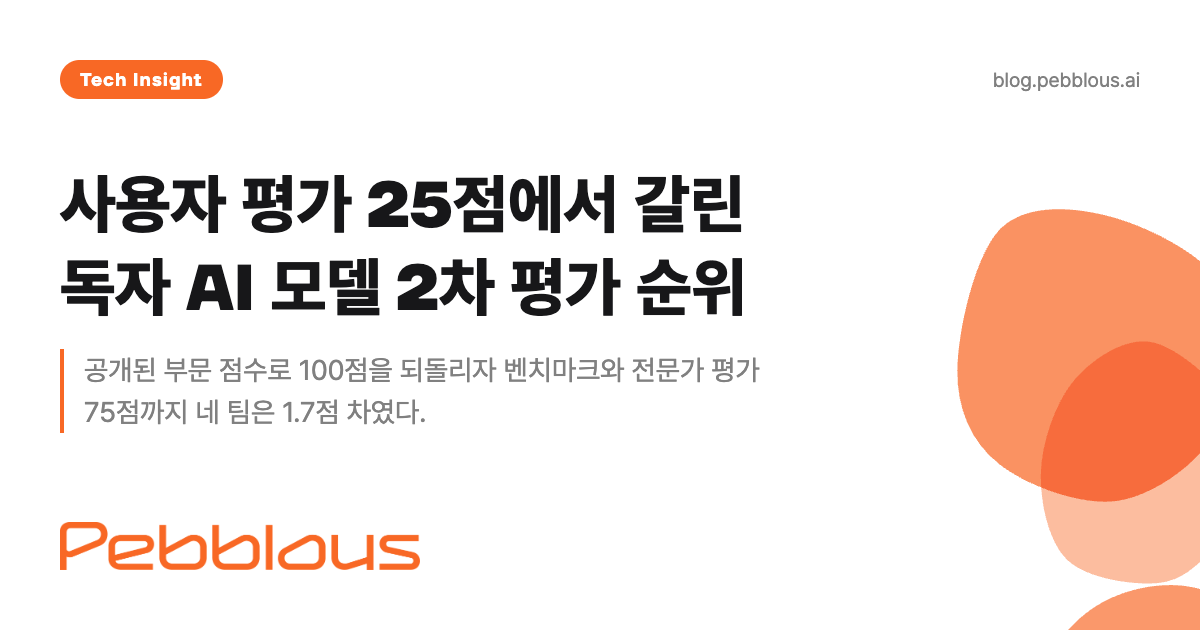
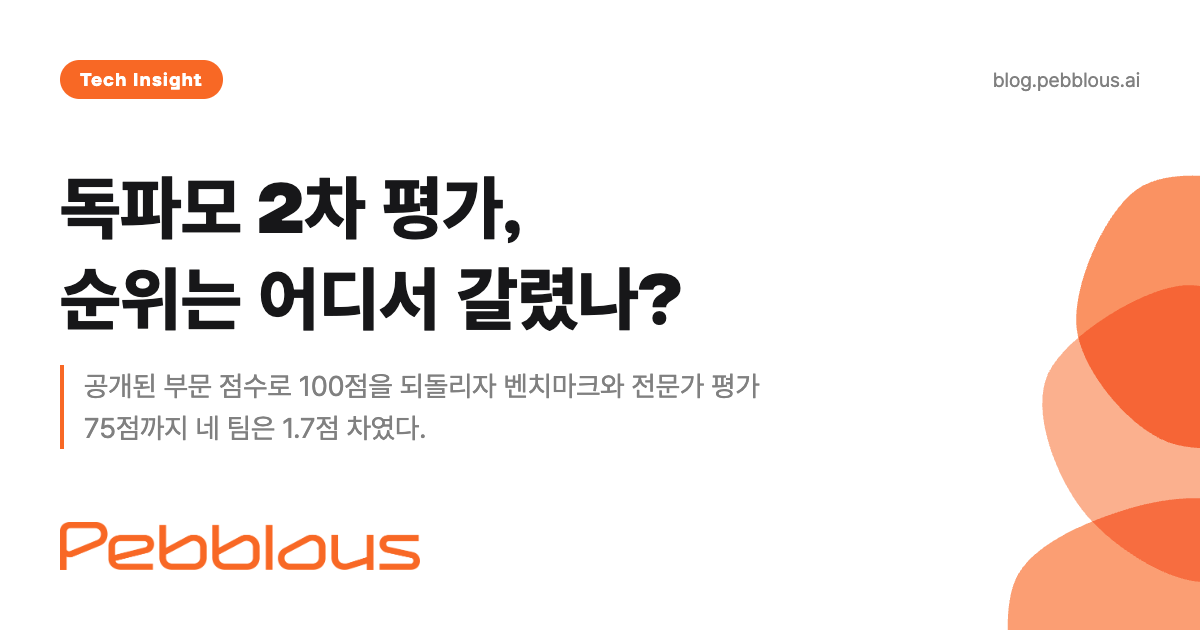
fix(report): 독파모 스코어카드 — 현행 규칙 맞춤 (KO+EN)
- 제목 v3·핵심 검색어: '독파모 2차 평가, 순위는 어디서 갈렸나?'(수치 나열 해소) + pb-search-keyword, 검색 제목 키워드 시작
- 초록 첫 문장에서 날짜 디테일 제거
- FAQ 답 29문장 합쇼체→해라체, 질문 9개 해요체→해라체
- EN: 제목 콜론 규칙·키워드 메타, 이탤릭 제거
- 발행일은 원래 작성일(2026-08-28) 유지 — 본문이 8월 말 시점 기준으로 쓰여 있음
- OG 표지 재생성, index.md 재추출

Changed region(s): [[0.0308, 0.2714, 0.6475, 0.6937], [0.7708, 0.2714, 1.0, 1.0]]

diff --git a/report/korea-dokpamo-benchmark-scorecard-2026-08/ko/index.html b/report/korea-dokpamo-benchmark-scorecard-2026-08/ko/index.html
@@ -9,8 +9,10 @@
     <meta name="copyright" content="© 2026 Pebblous. All rights reserved.">
     <meta name="robots" content="index, follow">
 
-    <title>독파모 2차 평가 점수 분석 — 벤치마크 40점과 사용자 평가 25점의 실효 가중치 | 페블러스</title>
+    <title>독파모 2차 평가 점수 분석, 벤치마크 40점과 사용자 평가 25점의 실효 가중치 | 페블러스</title>
     <meta name="description" content="독파모 2차 평가의 부문 점수를 되돌려 계산했다. 벤치마크와 전문가 평가를 합친 75점까지 네 팀은 1.7점 차였고, 순위는 마지막 사용자 평가 25점에서 갈렸다. AAII 25점 만점은 세계 1위 모델도 15.8점, NIA 15점은 네 팀을 0.7점 안에 묶었다.">
+    <meta name="pb-search-keyword" content="독파모">
+    <meta name="pb-search-keyword-forms" content="독파모|독자 AI 파운데이션 모델|독자 AI 모델">
     <meta name="keywords" content="독파모, 독자 AI 파운데이션 모델, AAII, Artificial Analysis, NIA 벤치마크, LLM 벤치마크, 모델 평가, AI 정책, 과학기술정보통신부, 모티프테크놀로지스, 데이터 품질, AI-Ready Data, 평가 데이터, 페블러스, Pebblous">
 
     <link rel="canonical" href="https://blog.pebblous.ai/report/korea-dokpamo-benchmark-scorecard-2026-08/ko/">
@@ -20,27 +22,27 @@
 
     <!-- Open Graph -->
     <meta property="og:type" content="article">
-    <meta property="og:title" content="사용자 평가 25점에서 갈린 독자 AI 모델 2차 평가 순위">
+    <meta property="og:title" content="독파모 2차 평가, 순위는 어디서 갈렸나?">
     <meta property="og:description" content="공개된 부문 점수로 100점을 되돌리자 벤치마크와 전문가 평가 75점까지 네 팀은 1.7점 차였다. 순위를 만든 힘은 마지막 구간에 실려 있었다.">
     <meta property="og:url" content="https://blog.pebblous.ai/report/korea-dokpamo-benchmark-scorecard-2026-08/ko/">
     <meta property="og:image" content="https://blog.pebblous.ai/report/korea-dokpamo-benchmark-scorecard-2026-08/ko/image/index.png">
     <meta property="og:image:width" content="1200">
     <meta property="og:image:height" content="630">
-    <meta property="og:image:alt" content="독파모 2차 평가 100점의 부문별 분해">
+    <meta property="og:image:alt" content="독파모 2차 평가, 순위는 어디서 갈렸나?">
     <meta property="og:site_name" content="Pebblous Blog">
     <meta property="og:locale" content="ko_KR">
 
     <!-- Twitter -->
     <meta name="twitter:card" content="summary_large_image">
-    <meta name="twitter:title" content="사용자 평가 25점에서 갈린 독자 AI 모델 2차 평가 순위">
+    <meta name="twitter:title" content="독파모 2차 평가, 순위는 어디서 갈렸나?">
     <meta name="twitter:description" content="AAII 25점 만점은 세계 1위 모델을 넣어도 15.8점이고, NIA 15점은 네 팀을 0.7점 안에 묶었다. 같은 100점 안에서 두 벤치마크의 자가 달랐다.">
     <meta name="twitter:image" content="https://blog.pebblous.ai/report/korea-dokpamo-benchmark-scorecard-2026-08/ko/image/index.png">
-    <meta name="twitter:image:alt" content="독파모 2차 평가 100점의 부문별 분해">
+    <meta name="twitter:image:alt" content="독파모 2차 평가, 순위는 어디서 갈렸나?">
     <meta name="twitter:site" content="@pebblous_ai">
     <meta name="twitter:creator" content="@pebblous_ai">
 
     <!-- Google Scholar Citation Meta -->
-    <meta name="citation_title" content="사용자 평가 25점에서 갈린 독자 AI 모델 2차 평가 순위 — 공개된 부문 점수로 되돌려 본 100점의 구조">
+    <meta name="citation_title" content="독파모 2차 평가, 순위는 어디서 갈렸나? 공개된 부문 점수로 되돌려 본 100점의 구조">
     <meta name="citation_author" content="Pebblous Data Communication Team">
     <meta name="citation_publication_date" content="2026/08/28">
     <meta name="citation_online_date" content="2026/08/28">
@@ -106,7 +108,7 @@
                 <section id="executive-summary" class="mb-16 fade-in-card">
                     <h2 class="text-3xl font-bold themeable-heading mb-8">Executive Summary</h2>
                     <div class="key-insight">
-                        <p class="themeable-text leading-relaxed">정부는 8월 18일 독자 AI 파운데이션 모델 사업의 2차 단계평가 결과를 발표하면서 두 가지를 함께 말했다. 모티프테크놀로지스가 다음 단계로 가지 못한다는 것, 그리고 한국이 미국과 중국에 이어 세계 3위라는 것이다. 그런데 탈락을 정한 100점과 3위를 말할 때 든 근거는 같은 잣대를 쓰지 않는다. 앞의 것은 국내 사업자를 고르는 선발 점수이고, 뒤의 것은 세계 리더보드의 특정 시점 스냅샷이다. 이 글은 공개된 숫자만으로 그 100점을 되돌려 본다.</p>
+                        <p class="themeable-text leading-relaxed">정부가 독자 AI 파운데이션 모델(독파모) 사업의 2차 단계평가 결과를 발표하면서 두 가지를 함께 말했다. 모티프테크놀로지스가 다음 단계로 가지 못한다는 것, 그리고 한국이 미국과 중국에 이어 세계 3위라는 것이다. 그런데 탈락을 정한 100점과 3위를 말할 때 든 근거는 같은 잣대를 쓰지 않는다. 앞의 것은 국내 사업자를 고르는 선발 점수이고, 뒤의 것은 세계 리더보드의 특정 시점 스냅샷이다. 이 글은 공개된 숫자만으로 그 100점을 되돌려 본다.</p>
                         <p class="themeable-text leading-relaxed mt-4">되돌리는 일은 8월 27일에야 가능해졌다. 그날 팀별 부문 점수가 전부 공개됐기 때문이다. 벤치마크와 전문가 평가를 합친 75점까지 네 팀은 1.7점 안에 붙어 있었다. 그 시점의 2위가 탈락한 팀이었다. 순서가 바뀐 것은 마지막 사용자 평가 구간이다. 한 부문씩 빼고 다시 매겨 보면 더 분명해진다. 어느 한 부문을 덜어내도 최하위는 그대로인데, 사용자 평가를 통째로 걷어내야 순서가 달라진다. 이것은 채점 오류가 아니라 가중합 점수표의 성질이다. 어떤 항목이 순위를 만드는지는 배점이 아니라 후보들이 그 항목에서 얼마나 흩어졌는지가 정한다. 합성지표 연구는 이 괴리를 오래전에 정식화했고, 대학 순위와 인간개발지수에서도 같은 어긋남을 실제로 측정한 바 있다.</p>
                         <p class="themeable-text leading-relaxed mt-4">세계 순위 쪽도 되짚었다. 리더보드 전체를 발표 시점으로 되돌리자 정부의 검증 가능한 두 주장은 정확히 재현됐다. 다만 여드레 뒤 공개된 싱가포르의 새 모델이 지금은 그 구간에 들어와 있다. 순위 주장에는 유효기간이 있다는 뜻이다. 결국 평가표도 하나의 데이터셋이다. 지표가 서로 같은 것을 재고 있지는 않은지, 어떤 지표가 상한에 붙어 정보를 잃었는지, 스케일이 달라 명목 가중치가 뒤틀리지 않았는지. 학습 데이터에 던지는 질문을 모델을 재는 표에도 던져야 한다.</p>
                     </div>
@@ -758,9 +760,9 @@
               },
               "recordedAt": "2026-08-28T10:22:50.597Z"
             },
-            mainTitle: "사용자 평가 25점에서 갈린 독자 AI 모델 2차 평가 순위",
+            mainTitle: "독파모 2차 평가, 순위는 어디서 갈렸나?",
             subtitle: "공개된 부문 점수로 100점을 되돌리자 벤치마크와 전문가 평가 75점까지 네 팀은 1.7점 차였다",
-            pageTitle: "독파모 2차 평가 점수 분석 — 벤치마크 40점과 사용자 평가 25점의 실효 가중치 | 페블러스",
+            pageTitle: "독파모 2차 평가 점수 분석, 벤치마크 40점과 사용자 평가 25점의 실효 가중치 | 페블러스",
             publishDate: "2026-08-28",
             publisher: "(주)페블러스 데이터 커뮤니케이션팀",
             defaultTheme: "light",
@@ -769,15 +771,15 @@
             wordCount: 18780,
             tags: ["독파모", "독자 AI 파운데이션 모델", "AAII", "Artificial Analysis", "NIA 벤치마크", "LLM 벤치마크", "모델 평가", "AI 정책", "데이터 품질", "AI-Ready Data", "평가 데이터", "과학기술정보통신부"],
             faqs: [
-                { question: "독파모 2차 평가의 100점은 어떻게 구성되나요?", answer: "AAII 벤치마크 25점, NIA 벤치마크 15점, 전문가 평가 35점, 전문 사용자 평가 15점, 국민 평가단 10점입니다. 기계가 채점하는 정량 벤치마크가 40점이고 나머지 60점은 사람이 매기는 점수입니다. 브리핑 구술에는 국민 평가 배점을 15점이라고 말한 대목이 있으나 같은 브리핑 질의응답에서 10점으로 정정됐고, 공개된 부문 평균과도 10점 쪽만 맞습니다." },
-                { question: "AAII에서 1위였던 모티프테크놀로지스가 왜 탈락했나요?", answer: "공개된 점수를 부문별로 되돌려 보면 벤치마크 40점과 전문가 평가 35점을 합친 75점까지 네 팀은 1.7점 안에 있었고 모티프테크놀로지스가 두 번째였습니다. 순서가 달라진 것은 마지막 사용자 평가 25점 구간입니다. 다만 이것은 산술적 관찰이며 특정 부문이 탈락의 원인이라는 인과 주장은 아닙니다. 모티프의 이의신청 결과는 2026년 8월 28일 현재 발표되지 않았습니다." },
-                { question: "AAII 25점 만점은 어떻게 환산되나요?", answer: "원점수에 0.25를 곱합니다. 25점을 받으려면 AAII 원점수 100점이 필요하고, 조회 시점 세계 1위 모델의 63.05를 같은 식에 넣어도 15.8점입니다. 25점 배점의 실질 상한이 16점 남짓인 셈입니다. 모티프테크놀로지스도 이의신청 입장문에서 같은 계산에 도달해 1위와 4위의 환산 격차가 4점에 불과하다고 지적했습니다." },
-                { question: "NIA 벤치마크의 원점수와 문항 수는 왜 나오지 않나요?", answer: "2026년 8월 28일 현재 공개되지 않았습니다. 공개된 것은 7개 분야 이름과 15점 만점으로 스케일링한 뒤의 팀별 점수뿐입니다. 그래서 네 팀이 0.7점 안에 몰린 것이 시험지에서 온 결과인지 환산 단계에서 온 결과인지 외부에서 가를 수 없습니다. 모티프테크놀로지스가 이의신청에서 요구한 항목에도 환산식 공개가 들어 있습니다." },
-                { question: "명목 배점과 실효 가중치가 다르다는 것은 무슨 뜻인가요?", answer: "가중합 점수에서 어떤 항목이 순위를 만드는지는 배점이 아니라 후보들이 그 항목에서 얼마나 흩어졌는지가 정합니다. 합성지표 연구는 이 괴리를 오래전에 정식화했고, 영국의 한 대학 순위에서는 명목 가중치가 0.20인 지표의 실제 중요도가 0.09로 측정된 사례가 있습니다." },
-                { question: "한국이 세계 AI 3강이라는 말의 근거는 무엇인가요?", answer: "최소한 네 가지 서로 다른 근거가 섞여 쓰입니다. AAII 국가별 프론티어 비교, AAII 40점 초과 구간 소속, 에포크 AI의 주목할 만한 AI 모델 등재국, 스탠퍼드 HAI의 AI 인덱스입니다. 각각 다른 것을 재며, 예컨대 HAI가 센 한국의 다섯 모델은 독파모 네 팀의 모델 목록과 다릅니다." },
-                { question: "정부가 발표한 40점 초과는 미·중·한뿐과 기업별 10위는 사실인가요?", answer: "리더보드 전체를 발표 시점으로 되돌려 재구성한 결과 두 주장 모두 정확히 재현됩니다. 다만 8월 26일 싱가포르의 새 모델이 그 구간에 들어오면서 8월 28일 조회 기준으로는 네 개 나라가 되고 기업별 순위도 한 칸 내려갑니다. 순위 주장에는 조회 시점을 함께 적어야 합니다." },
-                { question: "평가 기준을 공개하라는 것은 시험문제를 공개하라는 뜻인가요?", answer: "아닙니다. 문항을 전면 공개하면 벤치마크 학습과 점수 부풀리기가 생깁니다. 공개해야 할 것은 분야와 가중치, 프롬프트와 시스템 지침, 모델 버전과 추론 조건, 채점 기준, 반복 횟수와 신뢰구간, 평가위원 이해충돌 내역입니다. 일본의 국가 사업 GENIAC은 비공개 홀드아웃 데이터로 채점하면서 평가 조건과 결과는 공개하는 방식을 택했습니다." },
-                { question: "다른 조직도 이 진단을 해 볼 수 있나요?", answer: "필요한 재료는 지표별 최종 점수 행렬 하나뿐입니다. 각 지표에서 후보들이 얼마나 흩어졌는지를 재고, 그 흩어짐을 명목 배점과 나란히 놓아 실효 가중치를 계산하고, 상한이나 하한에 붙은 지표를 찾아내고, 사람이 채점하는 항목에는 평가자 간 일치도와 신뢰구간을 함께 남기면 됩니다." }
+                { question: "독파모 2차 평가의 100점은 어떻게 구성되나?", answer: "AAII 벤치마크 25점, NIA 벤치마크 15점, 전문가 평가 35점, 전문 사용자 평가 15점, 국민 평가단 10점이다. 기계가 채점하는 정량 벤치마크가 40점이고 나머지 60점은 사람이 매기는 점수다. 브리핑 구술에는 국민 평가 배점을 15점이라고 말한 대목이 있으나 같은 브리핑 질의응답에서 10점으로 정정됐고, 공개된 부문 평균과도 10점 쪽만 맞다." },
+                { question: "AAII에서 1위였던 모티프테크놀로지스가 왜 탈락했나?", answer: "공개된 점수를 부문별로 되돌려 보면 벤치마크 40점과 전문가 평가 35점을 합친 75점까지 네 팀은 1.7점 안에 있었고 모티프테크놀로지스가 두 번째였다. 순서가 달라진 것은 마지막 사용자 평가 25점 구간이다. 다만 이것은 산술적 관찰이며 특정 부문이 탈락의 원인이라는 인과 주장은 아니다. 모티프의 이의신청 결과는 2026년 8월 28일 현재 발표되지 않았다." },
+                { question: "AAII 25점 만점은 어떻게 환산되나?", answer: "원점수에 0.25를 곱한다. 25점을 받으려면 AAII 원점수 100점이 필요하고, 조회 시점 세계 1위 모델의 63.05를 같은 식에 넣어도 15.8점이다. 25점 배점의 실질 상한이 16점 남짓인 셈이다. 모티프테크놀로지스도 이의신청 입장문에서 같은 계산에 도달해 1위와 4위의 환산 격차가 4점에 불과하다고 지적했다." },
+                { question: "NIA 벤치마크의 원점수와 문항 수는 왜 나오지 않나?", answer: "2026년 8월 28일 현재 공개되지 않았다. 공개된 것은 7개 분야 이름과 15점 만점으로 스케일링한 뒤의 팀별 점수뿐이다. 그래서 네 팀이 0.7점 안에 몰린 것이 시험지에서 온 결과인지 환산 단계에서 온 결과인지 외부에서 가를 수 없다. 모티프테크놀로지스가 이의신청에서 요구한 항목에도 환산식 공개가 들어 있다." },
+                { question: "명목 배점과 실효 가중치가 다르다는 것은 무슨 뜻인가?", answer: "가중합 점수에서 어떤 항목이 순위를 만드는지는 배점이 아니라 후보들이 그 항목에서 얼마나 흩어졌는지가 정한다. 합성지표 연구는 이 괴리를 오래전에 정식화했고, 영국의 한 대학 순위에서는 명목 가중치가 0.20인 지표의 실제 중요도가 0.09로 측정된 사례가 있다." },
+                { question: "한국이 세계 AI 3강이라는 말의 근거는 무엇인가?", answer: "최소한 네 가지 서로 다른 근거가 섞여 쓰인다. AAII 국가별 프론티어 비교, AAII 40점 초과 구간 소속, 에포크 AI의 주목할 만한 AI 모델 등재국, 스탠퍼드 HAI의 AI 인덱스다. 각각 다른 것을 재며, 예컨대 HAI가 센 한국의 다섯 모델은 독파모 네 팀의 모델 목록과 다르다." },
+                { question: "정부가 발표한 40점 초과는 미·중·한뿐과 기업별 10위는 사실인가?", answer: "리더보드 전체를 발표 시점으로 되돌려 재구성한 결과 두 주장 모두 정확히 재현된다. 다만 8월 26일 싱가포르의 새 모델이 그 구간에 들어오면서 8월 28일 조회 기준으로는 네 개 나라가 되고 기업별 순위도 한 칸 내려간다. 순위 주장에는 조회 시점을 함께 적어야 한다." },
+                { question: "평가 기준을 공개하라는 것은 시험문제를 공개하라는 뜻인가?", answer: "아니다. 문항을 전면 공개하면 벤치마크 학습과 점수 부풀리기가 생긴다. 공개해야 할 것은 분야와 가중치, 프롬프트와 시스템 지침, 모델 버전과 추론 조건, 채점 기준, 반복 횟수와 신뢰구간, 평가위원 이해충돌 내역이다. 일본의 국가 사업 GENIAC은 비공개 홀드아웃 데이터로 채점하면서 평가 조건과 결과는 공개하는 방식을 택했다." },
+                { question: "다른 조직도 이 진단을 해 볼 수 있나?", answer: "필요한 재료는 지표별 최종 점수 행렬 하나뿐이다. 각 지표에서 후보들이 얼마나 흩어졌는지를 재고, 그 흩어짐을 명목 배점과 나란히 놓아 실효 가중치를 계산하고, 상한이나 하한에 붙은 지표를 찾아내고, 사람이 채점하는 항목에는 평가자 간 일치도와 신뢰구간을 함께 남기면 된다." }
             ]
         });
     </script>

diff --git a/report/korea-dokpamo-benchmark-scorecard-2026-08/en/index.html b/report/korea-dokpamo-benchmark-scorecard-2026-08/en/index.html
@@ -9,8 +9,10 @@
     <meta name="copyright" content="© 2026 Pebblous. All rights reserved.">
     <meta name="robots" content="index, follow">
 
-    <title>Korea's Sovereign AI Model Scorecard: Nominal vs Effective Weights in a 100-Point Evaluation | Pebblous</title>
+    <title>Korea Sovereign AI Scorecard, Reweighed | Pebblous</title>
     <meta name="description" content="Korea's sovereign AI scorecard, recalculated: four teams sat 1.7 points apart through 75 of 100, until the final 25 split them. AAII's real ceiling is 15.8 of 25.">
+    <meta name="pb-search-keyword" content="Korea sovereign AI">
+    <meta name="pb-search-keyword-forms" content="Korea sovereign AI|sovereign AI|Sovereign AI|dokpamo">
     <meta name="keywords" content="sovereign AI, AI foundation model, Korea AI policy, dokpamo, AAII, Artificial Analysis Intelligence Index, NIA benchmark, LLM benchmark, model evaluation, composite indicator, nominal weights, effective weights, benchmark saturation, evaluation data quality, AI-Ready Data, Pebblous">
 
     <link rel="canonical" href="https://blog.pebblous.ai/report/korea-dokpamo-benchmark-scorecard-2026-08/en/">
@@ -20,27 +22,27 @@
 
     <!-- Open Graph -->
     <meta property="og:type" content="article">
-    <meta property="og:title" content="The Benchmark Leader Came Last. We Rebuilt Korea's 100-Point AI Scorecard.">
+    <meta property="og:title" content="Where Was Korea's Sovereign AI Ranking Decided?">
     <meta property="og:description" content="Through 75 of the 100 points, the four teams were 1.7 points apart. The order was made in the last block. What a weighted scorecard actually measures is rarely what its weights say.">
     <meta property="og:url" content="https://blog.pebblous.ai/report/korea-dokpamo-benchmark-scorecard-2026-08/en/">
     <meta property="og:image" content="https://blog.pebblous.ai/report/korea-dokpamo-benchmark-scorecard-2026-08/en/image/index.png">
     <meta property="og:image:width" content="1200">
     <meta property="og:image:height" content="630">
-    <meta property="og:image:alt" content="The five blocks of Korea's 100-point sovereign AI model evaluation, broken down by team">
+    <meta property="og:image:alt" content="Where Was Korea's Sovereign AI Ranking Decided?">
     <meta property="og:site_name" content="Pebblous Blog">
     <meta property="og:locale" content="en_US">
 
     <!-- Twitter -->
     <meta name="twitter:card" content="summary_large_image">
-    <meta name="twitter:title" content="The Benchmark Leader Came Last. We Rebuilt Korea's 100-Point AI Scorecard.">
+    <meta name="twitter:title" content="Where Was Korea's Sovereign AI Ranking Decided?">
     <meta name="twitter:description" content="A 25-point block whose real ceiling is 15.8 even for the world's top model, and a 15-point block that put four teams inside 0.7. Two rulers, one scorecard.">
     <meta name="twitter:image" content="https://blog.pebblous.ai/report/korea-dokpamo-benchmark-scorecard-2026-08/en/image/index.png">
-    <meta name="twitter:image:alt" content="The five blocks of Korea's 100-point sovereign AI model evaluation, broken down by team">
+    <meta name="twitter:image:alt" content="Where Was Korea's Sovereign AI Ranking Decided?">
     <meta name="twitter:site" content="@pebblous_ai">
     <meta name="twitter:creator" content="@pebblous_ai">
 
     <!-- Google Scholar Citation Meta -->
-    <meta name="citation_title" content="The Benchmark Leader Came Last: Reconstructing the 100-Point Scorecard Behind Korea's Sovereign AI Foundation Model Contest">
+    <meta name="citation_title" content="Where Was Korea's Sovereign AI Ranking Decided? Reconstructing the 100-Point Scorecard">
     <meta name="citation_author" content="Pebblous Data Communication Team">
     <meta name="citation_publication_date" content="2026/08/28">
     <meta name="citation_online_date" content="2026/08/28">
@@ -106,7 +108,7 @@
                 <section id="executive-summary" class="mb-16 fade-in-card">
                     <h2 class="text-3xl font-bold themeable-heading mb-8">Executive Summary</h2>
                     <div class="key-insight">
-                        <p class="themeable-text leading-relaxed">On 18 August the Korean government announced the second-stage results of its Sovereign AI Foundation Model project, and said two things in the same breath. Motif Technologies would not advance. And Korea now stands third in the world, behind the United States and China. But the 100 points that decided the elimination and the evidence offered for third place are not measured with the same ruler. The first is a selection score for picking domestic contractors. The second is a snapshot of a global leaderboard at one moment in time. This report takes the published numbers and rebuilds that 100-point score.</p>
+                        <p class="themeable-text leading-relaxed">The Korean government announced the second-stage results of its Sovereign AI Foundation Model project and said two things in the same breath. Motif Technologies would not advance. And Korea now stands third in the world, behind the United States and China. But the 100 points that decided the elimination and the evidence offered for third place are not measured with the same ruler. The first is a selection score for picking domestic contractors. The second is a snapshot of a global leaderboard at one moment in time. This report takes the published numbers and rebuilds that 100-point score.</p>
                         <p class="themeable-text leading-relaxed mt-4">Rebuilding it only became possible on 27 August, when the per-team block scores were finally released in full. Through the benchmark and expert blocks, 75 of the 100 points, the four teams sat inside 1.7 points of each other. At that stage the team that was eliminated was in second place. The order changed in the final user-evaluation stretch. Dropping one block at a time makes it sharper. Remove any single block and the last-placed team stays last; only when the whole 25-point user evaluation is lifted out does the order rearrange. This is not a scoring error. It is a property of weighted-sum scorecards: which item makes the ranking is decided not by its weight but by how far apart the candidates fall on it. The composite-indicator literature formalised this gap years ago and measured it in university league tables and the Human Development Index.</p>
                         <p class="themeable-text leading-relaxed mt-4">We checked the world-ranking side too. Rewinding the full leaderboard to the announcement date, the government's two verifiable claims reproduce exactly. Eight days later, a new Singaporean model had entered the same band. Ranking claims come with an expiry date. In the end a scorecard is a dataset like any other. Are the indicators measuring the same thing twice? Has one of them saturated against its ceiling and stopped carrying information? Are the scales so different that the stated weights no longer mean what they say? These are the questions we ask of training data. They belong on the tables we use to score models too.</p>
                     </div>
@@ -141,7 +143,7 @@
                         <span class="number-badge">1</span>
                         <h2 class="text-3xl font-bold themeable-heading">What the 100 points are made of</h2>
                     </div>
-                    <p class="themeable-text leading-relaxed mb-6">Some context for readers outside Korea. The Sovereign AI Foundation Model project, known domestically as <em>dokpamo</em>, is a state programme that funds a shrinking set of national teams to build frontier-class Korean models, with GPU allocation and public money attached to each stage gate. Four teams entered the second stage: SK Telecom with A.X K2, Upstage with Solar Open 2, LG AI Research with K-EXAONE 2.0, and Motif Technologies with Motif 3.</p>
+                    <p class="themeable-text leading-relaxed mb-6">Some context for readers outside Korea. The Sovereign AI Foundation Model project, known domestically as "dokpamo", is a state programme that funds a shrinking set of national teams to build frontier-class Korean models, with GPU allocation and public money attached to each stage gate. Four teams entered the second stage: SK Telecom with A.X K2, Upstage with Solar Open 2, LG AI Research with K-EXAONE 2.0, and Motif Technologies with Motif 3.</p>
 
                     <p class="themeable-text leading-relaxed mb-6">The outcome arrived on 18 August. The scorecard arrived later. On announcement day the Ministry of Science and ICT gave only block averages and the first-to-fourth gap in each block. Two days later the detailed scoring rules and the top score in each block were published, and the criticism continued because totals and rankings still were not. All sixteen per-team block scores became public on 27 August, after the eliminated team, Motif Technologies, filed an objection and the remaining three consented to disclosure. Every calculation in this report starts from that last release.</p>
 
@@ -761,9 +763,9 @@
               },
               "recordedAt": "2026-08-28T10:22:50.597Z"
             },
-            mainTitle: "The Benchmark Leader Came Last. We Rebuilt Korea's 100-Point AI Scorecard.",
+            mainTitle: "Where Was Korea's Sovereign AI Ranking Decided?",
             subtitle: "Through 75 of the 100 points the four teams were 1.7 points apart, and the order was made in the last block, the 25 points of user evaluation",
-            pageTitle: "Korea's Sovereign AI Model Scorecard: Nominal vs Effective Weights in a 100-Point Evaluation | Pebblous",
+            pageTitle: "Korea Sovereign AI Scorecard, Reweighed | Pebblous",
             publishDate: "2026-08-28",
             publisher: "Pebblous Data Communication Team",
             defaultTheme: "light",

diff --git a/report/korea-dokpamo-benchmark-scorecard-2026-08/en/index.md b/report/korea-dokpamo-benchmark-scorecard-2026-08/en/index.md
@@ -1,5 +1,5 @@
 ---
-title: The Benchmark Leader Came Last. We Rebuilt Korea
+title: Where Was Korea
 subtitle: Through 75 of the 100 points the four teams were 1.7 points apart, and the order was made in the last block, the 25 points of user evaluation
 date: 2026-08-28
 category: tech
@@ -7,14 +7,14 @@ source: index.html
 note: HTML-중립 본문 원고(자동 역추출). 출간 후 본문 수정은 이 파일에서.
 ---
 
-# The Benchmark Leader Came Last. We Rebuilt Korea
+# Where Was Korea
 
 _Through 75 of the 100 points the four teams were 1.7 points apart, and the order was made in the last block, the 25 points of user evaluation_
 
 ## Executive Summary
 
 > [!callout]
-> On 18 August the Korean government announced the second-stage results of its Sovereign AI Foundation Model project, and said two things in the same breath. Motif Technologies would not advance. And Korea now stands third in the world, behind the United States and China. But the 100 points that decided the elimination and the evidence offered for third place are not measured with the same ruler. The first is a selection score for picking domestic contractors. The second is a snapshot of a global leaderboard at one moment in time. This report takes the published numbers and rebuilds that 100-point score.
+> The Korean government announced the second-stage results of its Sovereign AI Foundation Model project and said two things in the same breath. Motif Technologies would not advance. And Korea now stands third in the world, behind the United States and China. But the 100 points that decided the elimination and the evidence offered for third place are not measured with the same ruler. The first is a selection score for picking domestic contractors. The second is a snapshot of a global leaderboard at one moment in time. This report takes the published numbers and rebuilds that 100-point score.
 
 > Rebuilding it only became possible on 27 August, when the per-team block scores were finally released in full. Through the benchmark and expert blocks, 75 of the 100 points, the four teams sat inside 1.7 points of each other. At that stage the team that was eliminated was in second place. The order changed in the final user-evaluation stretch. Dropping one block at a time makes it sharper. Remove any single block and the last-placed team stays last; only when the whole 25-point user evaluation is lifted out does the order rearrange. This is not a scoring error. It is a property of weighted-sum scorecards: which item makes the ranking is decided not by its weight but by how far apart the candidates fall on it. The composite-indicator literature formalised this gap years ago and measured it in university league tables and the Human Development Index.
 
@@ -34,7 +34,7 @@ _Through 75 of the 100 points the four teams were 1.7 points apart, and the orde
 
 ## What the 100 points are made of
 
-Some context for readers outside Korea. The Sovereign AI Foundation Model project, known domestically as _dokpamo_, is a state programme that funds a shrinking set of national teams to build frontier-class Korean models, with GPU allocation and public money attached to each stage gate. Four teams entered the second stage: SK Telecom with A.X K2, Upstage with Solar Open 2, LG AI Research with K-EXAONE 2.0, and Motif Technologies with Motif 3.
+Some context for readers outside Korea. The Sovereign AI Foundation Model project, known domestically as "dokpamo", is a state programme that funds a shrinking set of national teams to build frontier-class Korean models, with GPU allocation and public money attached to each stage gate. Four teams entered the second stage: SK Telecom with A.X K2, Upstage with Solar Open 2, LG AI Research with K-EXAONE 2.0, and Motif Technologies with Motif 3.
 
 The outcome arrived on 18 August. The scorecard arrived later. On announcement day the Ministry of Science and ICT gave only block averages and the first-to-fourth gap in each block. Two days later the detailed scoring rules and the top score in each block were published, and the criticism continued because totals and rankings still were not. All sixteen per-team block scores became public on 27 August, after the eliminated team, Motif Technologies, filed an objection and the remaining three consented to disclosure. Every calculation in this report starts from that last release.
 

diff --git a/report/korea-dokpamo-benchmark-scorecard-2026-08/ko/index.md b/report/korea-dokpamo-benchmark-scorecard-2026-08/ko/index.md
@@ -1,5 +1,5 @@
 ---
-title: 사용자 평가 25점에서 갈린 독자 AI 모델 2차 평가 순위
+title: 독파모 2차 평가, 순위는 어디서 갈렸나?
 subtitle: 공개된 부문 점수로 100점을 되돌리자 벤치마크와 전문가 평가 75점까지 네 팀은 1.7점 차였다
 date: 2026-08-28
 category: tech
@@ -7,14 +7,14 @@ source: index.html
 note: HTML-중립 본문 원고(자동 역추출). 출간 후 본문 수정은 이 파일에서.
 ---
 
-# 사용자 평가 25점에서 갈린 독자 AI 모델 2차 평가 순위
+# 독파모 2차 평가, 순위는 어디서 갈렸나?
 
 _공개된 부문 점수로 100점을 되돌리자 벤치마크와 전문가 평가 75점까지 네 팀은 1.7점 차였다_
 
 ## Executive Summary
 
 > [!callout]
-> 정부는 8월 18일 독자 AI 파운데이션 모델 사업의 2차 단계평가 결과를 발표하면서 두 가지를 함께 말했다. 모티프테크놀로지스가 다음 단계로 가지 못한다는 것, 그리고 한국이 미국과 중국에 이어 세계 3위라는 것이다. 그런데 탈락을 정한 100점과 3위를 말할 때 든 근거는 같은 잣대를 쓰지 않는다. 앞의 것은 국내 사업자를 고르는 선발 점수이고, 뒤의 것은 세계 리더보드의 특정 시점 스냅샷이다. 이 글은 공개된 숫자만으로 그 100점을 되돌려 본다.
+> 정부가 독자 AI 파운데이션 모델(독파모) 사업의 2차 단계평가 결과를 발표하면서 두 가지를 함께 말했다. 모티프테크놀로지스가 다음 단계로 가지 못한다는 것, 그리고 한국이 미국과 중국에 이어 세계 3위라는 것이다. 그런데 탈락을 정한 100점과 3위를 말할 때 든 근거는 같은 잣대를 쓰지 않는다. 앞의 것은 국내 사업자를 고르는 선발 점수이고, 뒤의 것은 세계 리더보드의 특정 시점 스냅샷이다. 이 글은 공개된 숫자만으로 그 100점을 되돌려 본다.
 
 > 되돌리는 일은 8월 27일에야 가능해졌다. 그날 팀별 부문 점수가 전부 공개됐기 때문이다. 벤치마크와 전문가 평가를 합친 75점까지 네 팀은 1.7점 안에 붙어 있었다. 그 시점의 2위가 탈락한 팀이었다. 순서가 바뀐 것은 마지막 사용자 평가 구간이다. 한 부문씩 빼고 다시 매겨 보면 더 분명해진다. 어느 한 부문을 덜어내도 최하위는 그대로인데, 사용자 평가를 통째로 걷어내야 순서가 달라진다. 이것은 채점 오류가 아니라 가중합 점수표의 성질이다. 어떤 항목이 순위를 만드는지는 배점이 아니라 후보들이 그 항목에서 얼마나 흩어졌는지가 정한다. 합성지표 연구는 이 괴리를 오래전에 정식화했고, 대학 순위와 인간개발지수에서도 같은 어긋남을 실제로 측정한 바 있다.
 
